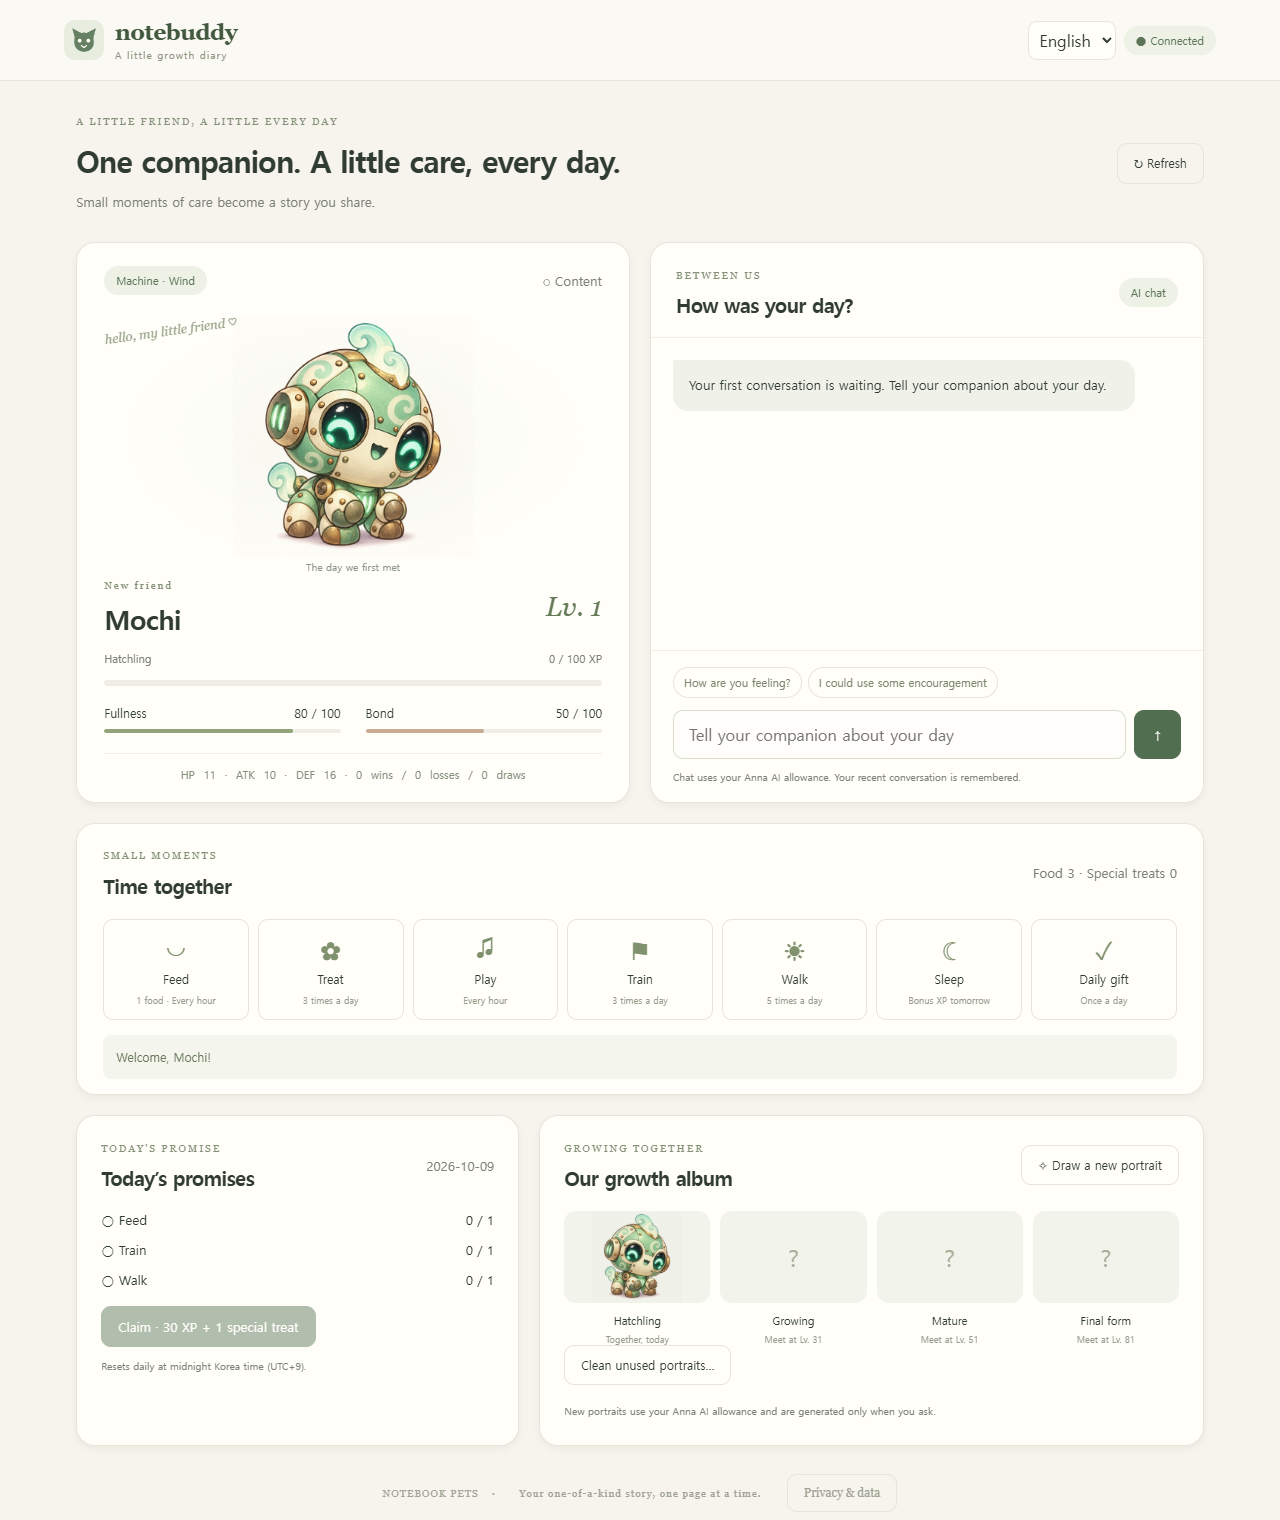
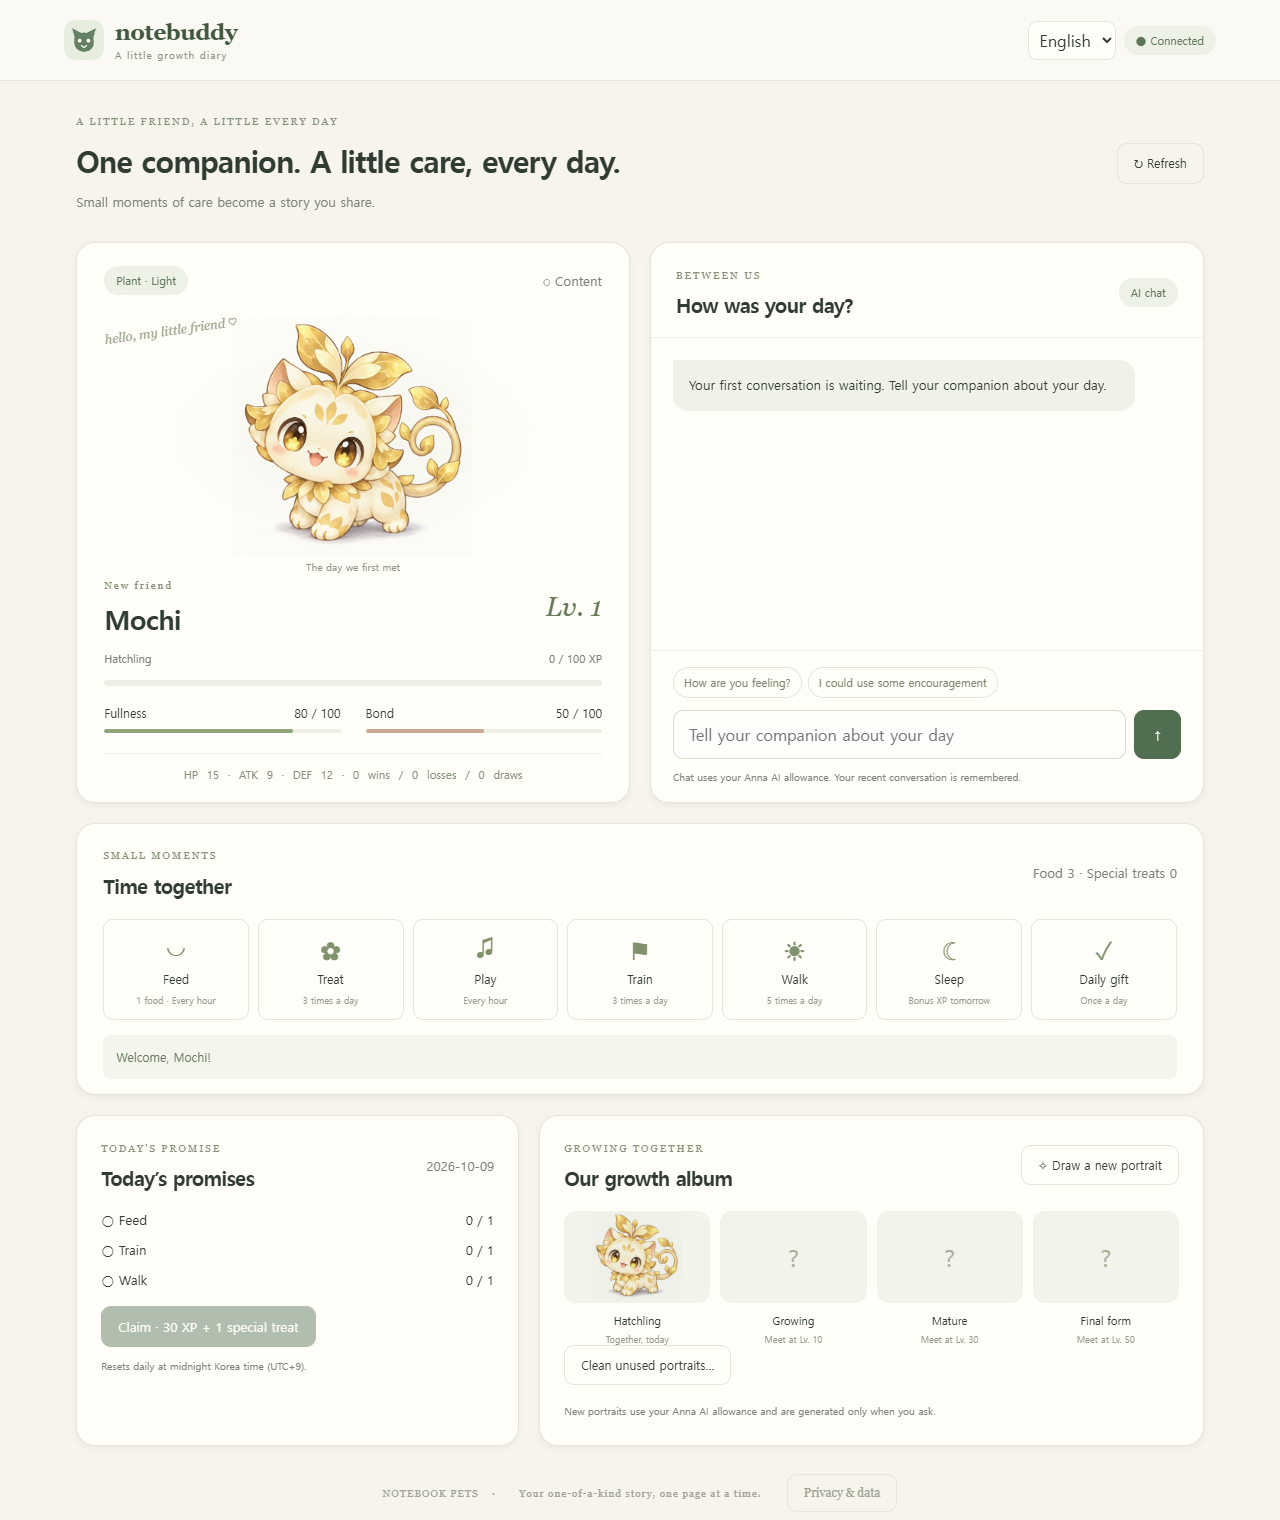
docs(anna): prepare 0.2.1 review materials and record accepted limitations

Changed region(s): [[0.1875, 0.2164, 0.375, 0.3711], [0.4688, 0.8039, 0.5312, 0.8658]]

diff --git a/anna/REVIEW_READINESS.md b/anna/REVIEW_READINESS.md
@@ -1,31 +1,24 @@
-# Anna 심사 준비 현황
+# Anna 심사 준비 · 2026-10-09
 
-2026-10-09 확인. 기능이 실행되는 상태와 심사를 통과한 상태는 다릅니다. 최종 승인은 Anna 심사자의 판단이며, 현재 앱은 비공개 초안입니다.
+사용자는 Anna 측 직접 확인이 어려우므로 공식 문서에 지원이 없는 항목은 기다리지 않고 제출하도록 승인했습니다. 이전 원자적 최초 생성 출시 차단 결정을 대체합니다. 미해결 문제를 해결됐다고 표시하지 않습니다.
 
-## 확인 완료
+## 제출 후보와 자료
 
-- 영문 기본 화면·소개, 한국어 선택, 이름·기존 대화 보존.
-- 최초 파트너 생성, 돌봄, AI 대화·이미지 저장, 재접속 복원은 설치된 Anna 앱에서 확인한 기록이 있습니다.
-- Executa 저장 권한(`aps.kv`), manifest strict 검사, Windows/Linux 회귀 테스트와 배포 파일 검증.
-- 요청 결과의 수·크기 제한과 순번 기반 재실행 방지. 자세한 저장 계약·구버전 제한은 [STORAGE_POLICY.md](STORAGE_POLICY.md).
-- 실제 Listing 화면에서 이름, 카테고리, 영문 설명, 로고, 홈페이지와 지원 URL 등록을 확인했습니다.
+- 앱 **0.2.1**, version ID **1219** / 게임 도구 **0.1.9**, version ID **694**.
+- 영문 소개·로고·지원 GitHub Issues·개인정보 안내 URL 등록. 별도 비공개 지원 창구가 마련됐다고 주장하지 않습니다.
+- 실제 UI와 격리된 Python 엔진으로 스크린샷 3장을 재촬영했습니다. 성장 앨범 10/30/50 표시를 확인했고 사용자 계정·대화·유료 AI는 사용하지 않았습니다.
+- strict manifest 검증 통과. 기존 코드 검증과 설치된 고정 버전의 연결·저장된 펫/개인 그림·앨범 확인은 [HANDOFF.md](HANDOFF.md)에 기록했습니다.
+- 자동 돌봄 AI 반응은 제외한 후보입니다. 수동 AI 대화·그림, 2D 전투, 성장 1/10/30/50을 제공합니다.
 
-## 출시 전에 남은 일
+## 보류한 제한과 검증 범위
 
-| 순서 | 항목 | 상태와 완료 기준 |
-| --- | --- | --- |
-| 1 | 동시 최초 생성 | **프로젝트 자체 출시 차단 항목.** 사용자 결정대로 Anna의 원자적 최초 생성 지원 확인까지 유지합니다. [재현과 문의 초안](FIRST_CREATION.md)은 준비됐지만 문의를 보내지는 않았습니다. 지원되는 API로 여러 실행기의 최초 생성·지연 요청을 검증해야 합니다. |
-| 2 | 데이터 처리·삭제 | 기존 게임에 대한 명시 확인 삭제와 대화·초상화 정리/재시도를 구현했습니다. 최소 계정 연계 삭제 표식은 남으며 영구 삭제 후에는 재시작할 수 없습니다. 활성 게임에서 새 친구를 만드는 별도 [초기화](RESET.md)를 추가했습니다. [삭제 범위와 제한](DATA_REMOVAL.md)을 확인하세요. 없는 게임 기록, 최초 저장 중 삭제, 구버전 창의 진행 중 쓰기, 플랫폼·AI 로그/백업 및 삭제 표식 자체의 제거, 비공개 지원 접수는 아직 출시 전 확인 대상입니다. 전체 영구 삭제 완료로 표현하지 않습니다. |
-| 3 | 스토어 이미지 | [영문 실제 UI 캡처 3장](store/README.md)을 준비하고 비공개 Listing에 등록했습니다. 격리된 로컬 엔진으로 생성한 테스트 파트너이며 사용자 계정의 대화를 공개하지 않습니다. 최종 후보 화면과의 일치 확인은 남아 있습니다. 선택 항목인 Cover URL은 비워 두었습니다. |
-| 4 | 심사 후보 최종 검증 | [검증 결과와 미검증 항목](REVIEW_VERIFICATION.md)을 분리해 기록했습니다. UI 오류 주입 브라우저 테스트 9개와 기존 계정 업데이트·복원을 확인했습니다. 신규 계정 설치·권한 최초 승인 및 최종 후보 전체 실서비스 흐름은 추가 검증이 필요합니다. 현재 manifest는 별도의 mobile 지원을 선언하지 않으므로 모바일 인증 완료로 설명하지 않습니다. |
-| 5 | 심사 제출·피드백 | 위 항목이 끝나면 후보 버전을 고정하고 제출합니다. 반려 사유가 오면 수정 후 재제출합니다. 승인 여부·일정은 보장할 수 없습니다. |
+- [동시 최초 생성](FIRST_CREATION.md): 공식 APS API에 원자적 create-if-absent가 없으며 다중 실행기의 지연된 최초 쓰기가 다른 펫/진행을 덮을 수 있습니다. 현재 보호 조치로 완전히 막지 못합니다.
+- [삭제](DATA_REMOVAL.md): 첫 쓰기·구버전 요청·진행 중 업로드 및 플랫폼 로그/백업 보관까지 완전 삭제를 보장하지 않습니다. 개인정보 안내에도 한계를 유지합니다.
+- 별도 신규 계정의 설치/최초 권한 승인 전체 흐름은 미검증입니다. 기존 계정 검증 및 오류 주입 브라우저 테스트와 구분합니다. 모바일 지원 인증도 주장하지 않습니다.
+- 위 항목은 이번 사용자 승인으로 제출 차단에서 제외했으며 Anna가 승인한 예외는 아닙니다. 심사 피드백에 따라 추가 조치할 수 있습니다.
 
-게임 기록 크기 제한이 계정 전체의 용량이나 이미지 정리를 해결하는 것은 아닙니다. 미사용 초상화의 수동 정리와 대화 저장 재시도를 추가했습니다([범위와 검증](STORAGE_MAINTENANCE.md)). 대화의 바이트 한도, APS용 백업·비활동 페널티는 적용 범위를 따로 검토해야 합니다. 현재 소개문에는 원본 Discord의 모든 운영 기능이 Anna에서도 제공된다고 쓰지 않습니다.
+## 공식 제출 절차
 
-## 플랫폼 요구사항과 프로젝트 판단의 구분
+[Publishing an App](https://anna.partners/developers/apps/app-publish.md)의 manifest 검증·고정 버전·Executa 의존성·UI bundle readiness 및 설치 사용 요건을 기준으로 확인합니다. 제출 API의 서버 사전 검사를 통과해야 심사 대기가 됩니다. 실제 제출 결과는 [HANDOFF.md](HANDOFF.md)에 기록합니다.
 
-[Listing Fields](https://anna.partners/developers/apps/app-listing.md)에서 이름·slug·카테고리는 필수이고, 스크린샷·privacy URL·cover URL 등은 등록 스키마상 선택입니다. 빈 선택 필드만으로 자동 반려된다고 단정하지 않습니다. 다만 대화와 이미지를 저장하는 이 앱에서는 사용자 설명과 실제 화면 자료를 준비하는 것이 적절합니다.
-
-[Publishing an App](https://anna.partners/developers/apps/app-publish.md)은 유효한 manifest, 고정된 Executa 연결, 준비 완료된 UI bundle, 개발자의 설치·종단 간 사용 검증을 제출 전 점검 대상으로 명시합니다. 심사자는 실제 동작과 소개/스크린샷의 일치를 확인하며, mobile을 선언한 경우 모바일 체크리스트도 확인합니다.
-
-공식 문서에는 관리자가 `publish: false`로 승인만 하거나 `publish: true`로 승인과 공개를 함께 할 수 있다고 적혀 있습니다. 현재 콘솔은 승인 즉시 공개된다고 안내했습니다. 따라서 **심사 제출을 공개 가능성이 있는 단계로 취급**하고, 출시 차단 문제가 남은 상태에서는 제출하지 않습니다. 이 문서는 문의·심사 제출·공개를 실행했다는 기록이 아닙니다.
+심사 승인은 Anna의 결정입니다. 관리자가 승인과 공개를 함께 수행할 수 있으며 제출은 통과나 공개 완료를 뜻하지 않습니다. 이번 작업에서는 별도 release 명령을 실행하지 않습니다.

diff --git a/anna/PRIVACY.md b/anna/PRIVACY.md
@@ -55,7 +55,7 @@ This permanently ends the existing game. Its saved name, progress and action res
 
 If cleanup is interrupted, reopen the app and choose **Check and retry data cleanup**. A cleanup error does not mean everything was removed. “Cleanup checked” means the app observed its chat/index markers and an empty portrait file list at that check, not a guarantee about physical erasure or other active clients. Pending uploads and old windows may write afterward: stop them and check again. Already-issued image download links may remain usable until they expire or platform removal takes effect. The browser language preference is cleared after successful cleanup; the current window retains its selected language until closed.
 
-If game progress changed after the confirmation preview, removal is refused: refresh and review the confirmation again. If the result is uncertain, refresh to check whether the game ended and resume cleanup. The app does not offer this removal flow for a missing game save, because Anna’s current APIs do not provide the first-write protection needed for that case. Concurrent initial creation and old in-flight unconditional writes remain release blockers; this private preview is not a claim of verified complete erasure under every concurrent-client scenario.
+If game progress changed after the confirmation preview, removal is refused: refresh and review the confirmation again. If the result is uncertain, refresh to check whether the game ended and resume cleanup. The app does not offer this removal flow for a missing game save, because Anna’s current APIs do not provide the first-write protection needed for that case. Concurrent initial creation and old in-flight unconditional writes remain known limitations. Complete erasure has not been verified under every concurrent-client scenario.
 
 For cases this flow cannot handle or questions, use [Notebuddy project support](https://github.com/kdkrkwhr/notebook-pets/issues). GitHub issues are public: ask for a private contact route first, without posting your chat, account details, credentials or saved data. A support request is not confirmation of removal and this notice does not promise a response deadline. Requests concerning minimal account-associated markers, other development installations or Anna-account retention need an authenticated platform-supported process.
 

diff --git a/anna/store/README.md b/anna/store/README.md
@@ -1,12 +1,12 @@
 # Store screenshots
 
-Captured on 2026-10-09 from app 0.1.11 with the actual bundled UI and Python game engine, using an isolated local Anna development harness. The harness controls and logs are excluded. Screenshots contain no real account data, fabricated AI conversation, edited game values or generated UI mockups.
+Captured on 2026-10-09 from app 0.2.1 with the actual bundled UI and Python game engine, using an isolated local Anna development harness. The harness controls and logs are excluded. Screenshots contain no real account data, fabricated AI conversation, edited game values or generated UI mockups.
 
 - `01-first-meeting.png`: actual initial screen, 1280 × 820.
 - `02-companion-and-care.png`: a newly created test companion, 1280 × 1520.
 - `03-care-and-album.png`: the same companion's care, daily quests and locked future stages, 1280 × 740.
 
-The companion uses the revised `starters-v1` artwork. The 0.1.11 recapture verified image decoding and initial creation; the language/privacy checks below refer to the earlier capture, with current behavior also covered by the browser regression suite. No paid AI request was made. The English UI, Korean privacy dialog, closing behavior and a 360-pixel privacy-dialog layout were checked in a separate headless Edge browser. This is not a native-mobile certification or an APS persistence test.
+The companion uses the revised `starters-v1` artwork. The 0.2.1 recapture verified image decoding and initial creation; the language/privacy checks below refer to the earlier capture, with current behavior also covered by the browser regression suite. No paid AI request was made. The English UI, Korean privacy dialog, closing behavior and a 360-pixel privacy-dialog layout were checked in a separate headless Edge browser. This is not a native-mobile certification or an APS persistence test.
 
 The CLI legacy in-memory harness did not retain the sequenced game state across the start → feed calls in an earlier capture attempt: feed returned `request_expired`. That failed capture was discarded. Final screenshots show the successful initial creation only. Real APS save/persistence checks belong to the installed private Anna app and are recorded in `../HANDOFF.md`; do not use the legacy harness to certify them.
 

diff --git a/anna/DATA_REMOVAL.md b/anna/DATA_REMOVAL.md
@@ -16,7 +16,7 @@ App/tool 0.1.6. This flow removes existing Notebuddy game content; it is not a r
 - Game removal and app cleanup are not one distributed transaction. Game removal can succeed while chat/files remain; the ended-game screen always offers cleanup retry, including after reopening.
 - Failed/ambiguous erasure is not reported as success. Gameplay is disabled in that window until the user resolves the result. A failed cleanup never claims the file list is empty.
 - An already-existing conditional game or chat writer cannot overwrite a marker with its old ETag. After a conflict the new client reads the marker and stops.
-- Anna has no atomic create-if-absent. A previously queued unconditional first writer can still land after a marker. Old UI clients may also merge over app markers without understanding them, and pending uploads may finalize later. Closing other windows and stopping requests is an operational precondition, not a proven global cancellation barrier. These limitations remain release blockers pending Anna support or a verified writer-quiescence mechanism.
+- Anna has no atomic create-if-absent. A previously queued unconditional first writer can still land after a marker. Old UI clients may also merge over app markers without understanding them, and pending uploads may finalize later. Closing other windows and stopping requests is an operational precondition, not a proven global cancellation barrier. These remain known limitations. On 2026-10-09 the owner accepted submission without waiting for undocumented platform capabilities; this does not establish safe deletion under these concurrent-write scenarios.
 - File lists may exclude pending uploads. An empty list proves only the entries visible during that check. Stop uploads and retry. Existing download URLs, platform/provider logs, soft-deletion retention and backups are outside this flow.
 - Markers remain account-associated APS records. Do not call them anonymous, claim zero retained data, or offer “complete account deletion”. The missing-game case and removal of markers require a separately authenticated platform-supported route.
 

diff --git a/anna/REVIEW_VERIFICATION.md b/anna/REVIEW_VERIFICATION.md
@@ -1,6 +1,6 @@
 # 심사 후보 검증 · 2026-10-09
 
-최근 앱 UI 후보는 **0.1.11**, 게임 도구는 **0.1.8**입니다. 기본 이미지 72종과 생성 프롬프트 정렬은 [기본 이미지 검증](STARTER_ART.md)에 기록했습니다. 초기화 기능의 검증은 [RESET.md](RESET.md)에 기록했습니다. 0.1.8의 추가 기능 검증은 [대화 저장·초상화 정리](STORAGE_MAINTENANCE.md)에 기록했습니다. 아래는 0.1.7 복구 검증 이력입니다. 심사 통과 또는 신규 계정 전체 검증 완료를 뜻하지 않습니다. 원자적 최초 생성은 여전히 출시 차단 항목입니다.
+현재 심사 후보는 앱 **0.2.1** (1219), 도구 **0.1.9** (694)입니다. 화면 복구·2D 전투·성장 1/10/30/50의 최신 검증은 [HANDOFF.md](HANDOFF.md)에 기록했습니다. UI 테스트 31개, 브라우저 테스트 18개와 strict manifest 검증을 통과했습니다. 아래는 이전 0.1.7 복구 검증 이력이며 신규 계정 전체 검증 완료를 뜻하지 않습니다. 원자적 최초 생성은 미해결이지만 사용자 결정으로 이번 제출의 차단 조건에서는 제외했습니다.
 
 ## 이번에 수정한 복구 동작
 

diff --git a/anna/FIRST_CREATION.md b/anna/FIRST_CREATION.md
@@ -1,6 +1,6 @@
-# First-partner creation: remaining release blocker
+# First-partner creation: accepted submission limitation
 
-Checked on 2026-10-09. The owner chose to keep this as a release blocker until Anna supports or confirms an atomic first-write operation. No external database was added, and no support message has been sent.
+Checked on 2026-10-09. The owner now authorizes review submission without waiting for undocumented Anna capabilities or direct platform confirmation. This supersedes the earlier release-blocker decision; the race below is NOT fixed and remains tracked for follow-up. No external database was added, and no support message has been sent.
 
 ## What is protected
 
